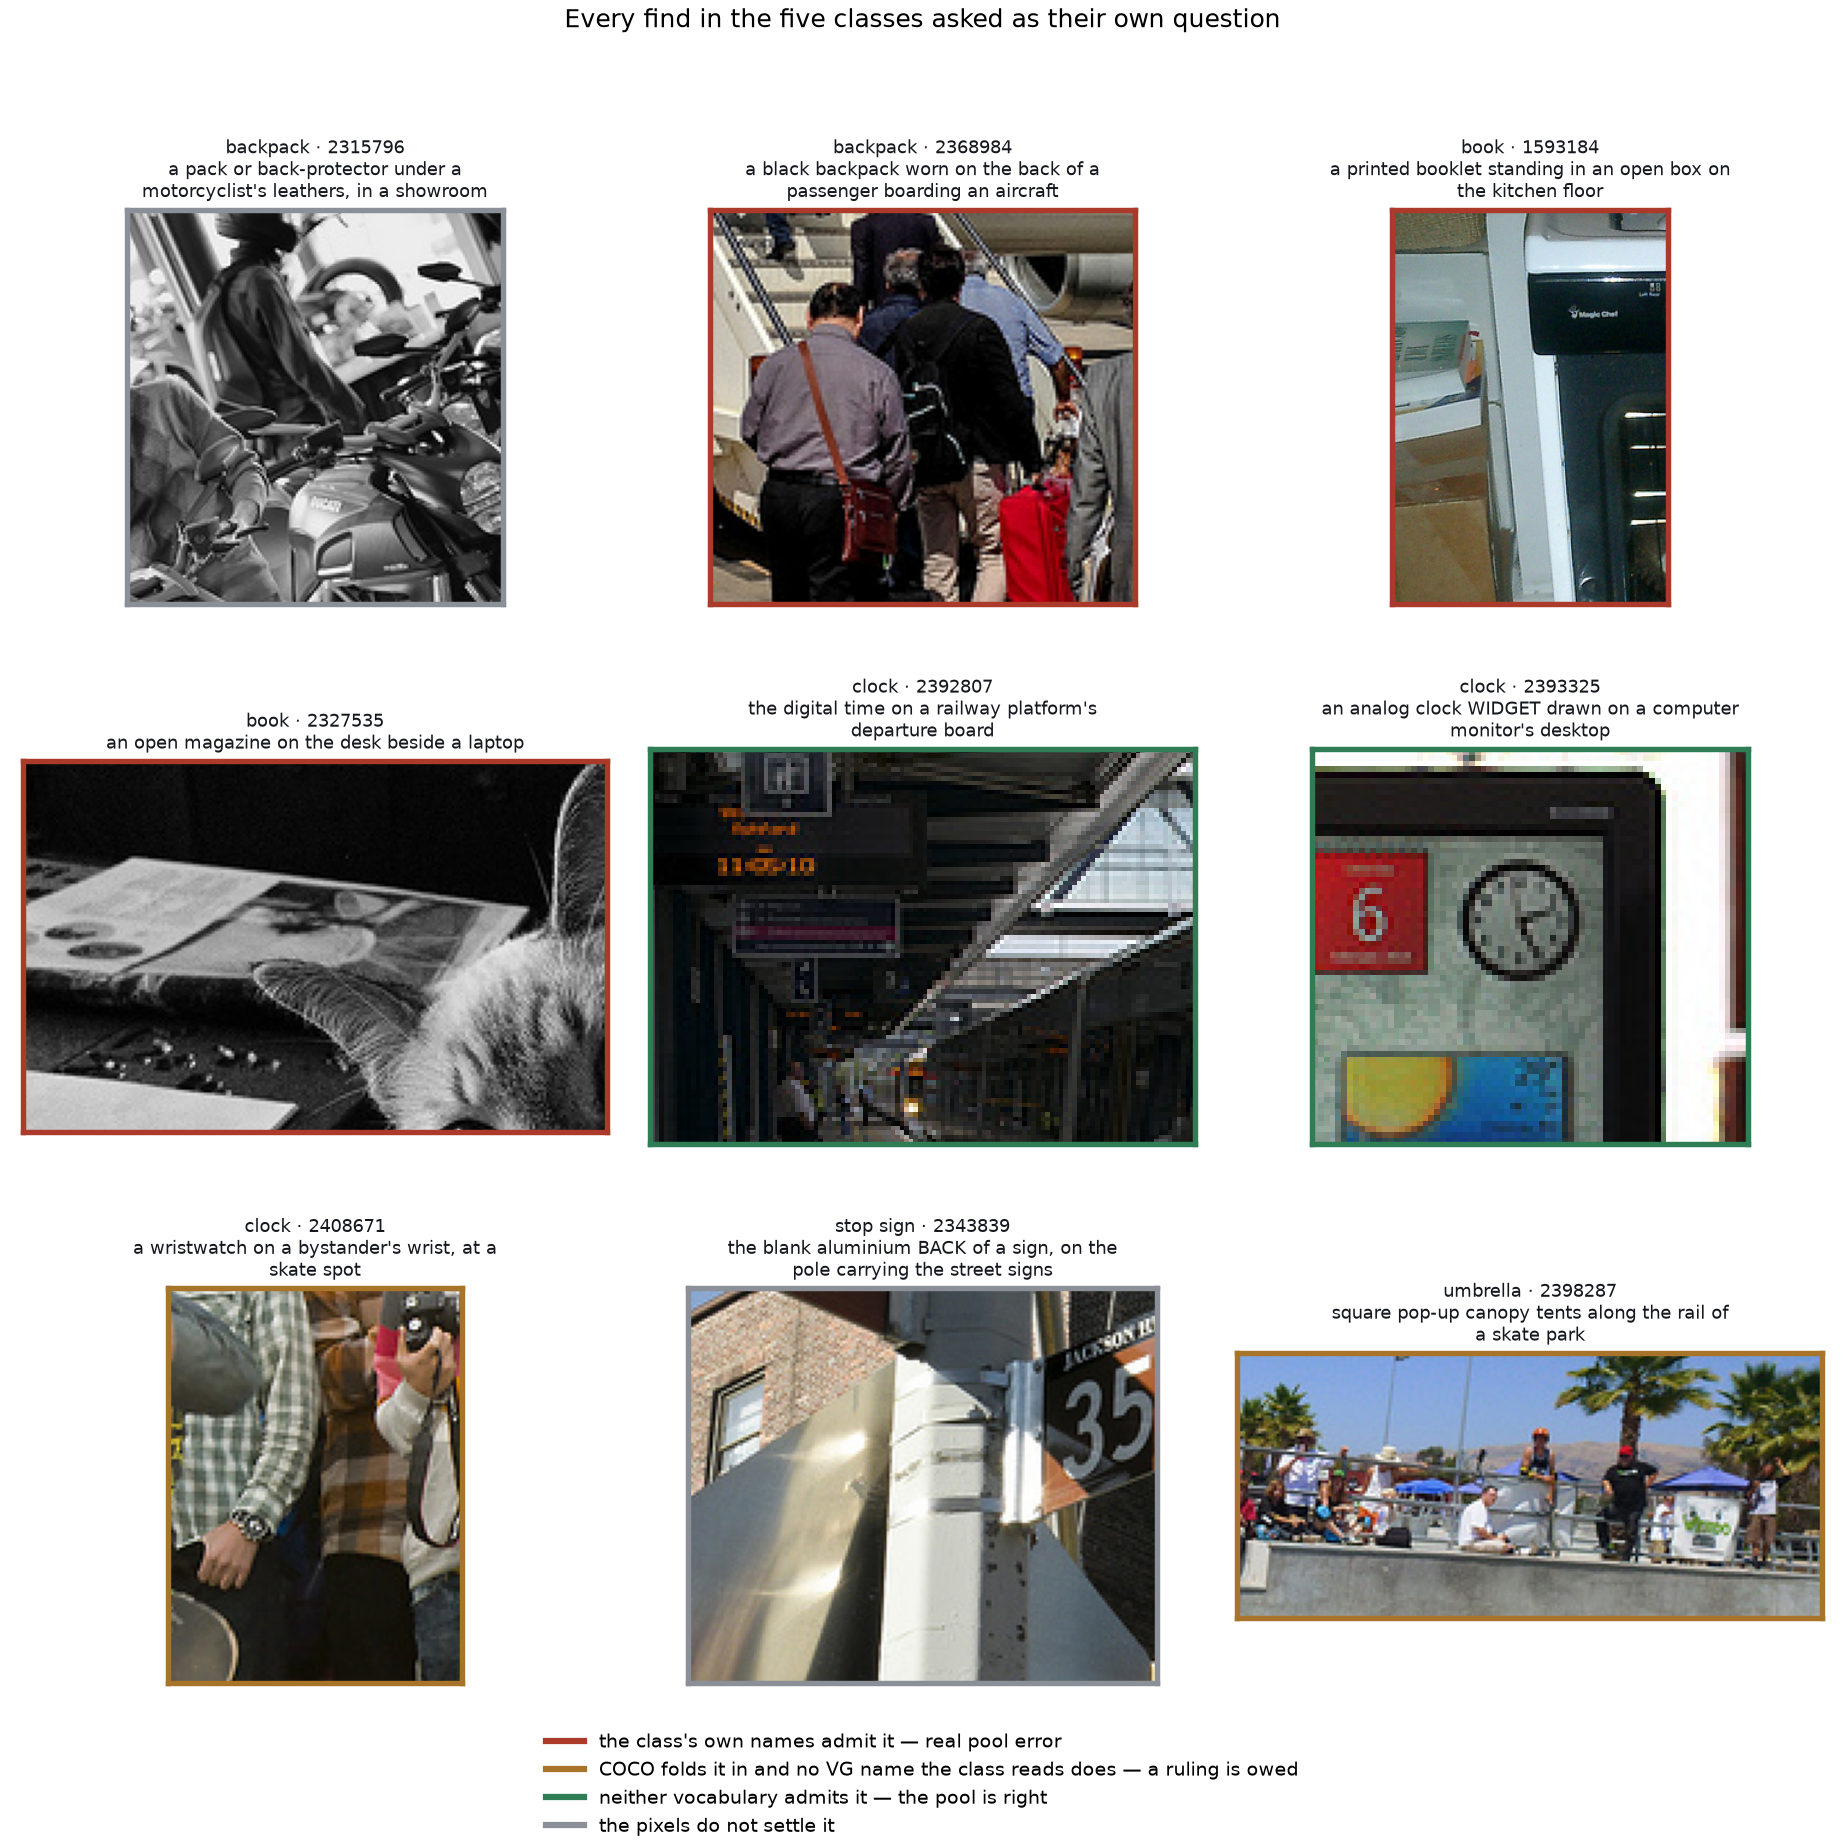
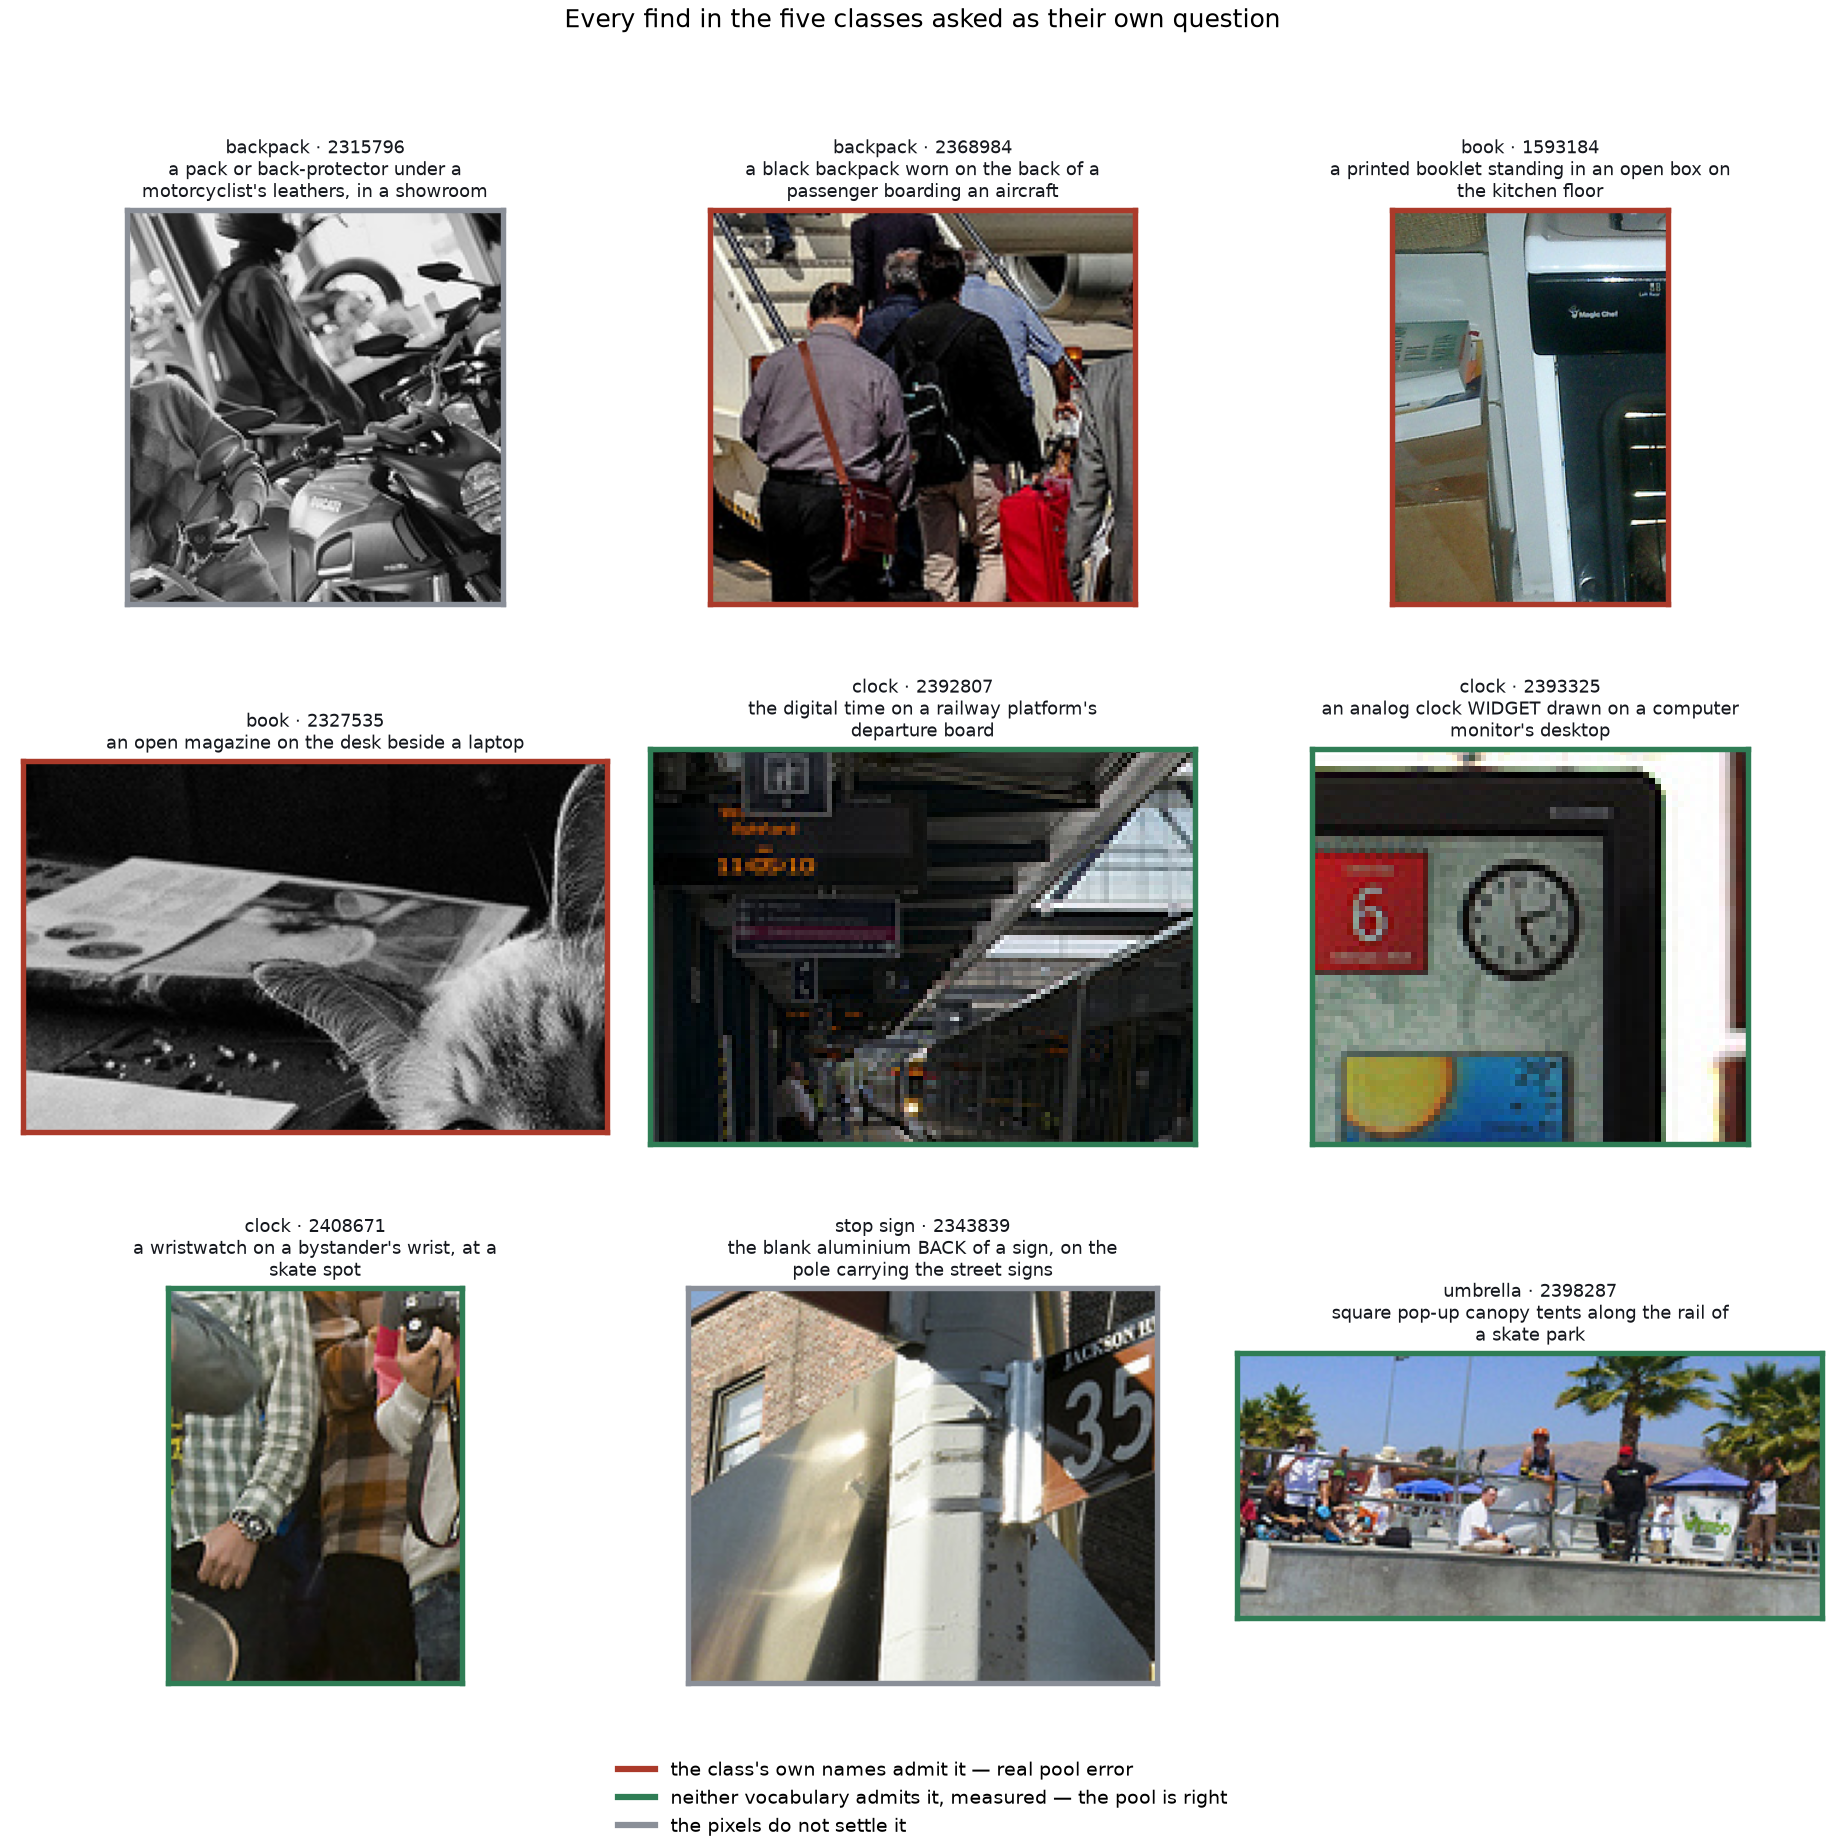
Report: clock's admissible column is 0, and the figures follow (#3666)
Claude-Session: https://claude.ai/code/session_01FAnc7gMSFh43SCLGBM3zCv
(cherry picked from commit ccbdfdb2f0b1891d284da1dcaa13099d11fac909)

diff --git a/docs/experiments/2026-09-06-shipped-pool-3666/REPORT.md b/docs/experiments/2026-09-06-shipped-pool-3666/REPORT.md
@@ -54,7 +54,7 @@ is what §4's second figure is.
 
 | class | asked as | uniform stratum | 95% CI | admissible | ranked | #3635 predicted |
 |---|---|---:|---|---:|---:|---:|
-| `clock` | per-class | 3/100 = 3.0% | [1.0, 8.5] | 0–1 | 0 | 1.10% |
+| `clock` | per-class | 3/100 = 3.0% | [1.0, 8.5] | 0 | 0 | 1.10% |
 | `book` | per-class | 2/100 = 2.0% | [0.6, 7.0] | 2 | 0 | 1.65% |
 | `backpack` | per-class | 2/100 = 2.0% | [0.6, 7.0] | 1–2 | 0 | 2.87% |
 | `umbrella` | per-class | 0/100 = 0.0% | [0.0, 3.7] | 0 | 1 | 0.71% |
@@ -68,7 +68,7 @@ is what §4's second figure is.
 | `kite` | group of 4 | 0/100 = 0.0% | [0.0, 3.7] | 0 | 0 | 0.28% |
 
 *`admissible` is §4's column: the finds the class's own name tables would have
-accepted as a positive, given as a range because two of the nine are
+accepted as a positive, given as a range where one of the class's finds is
 unverifiable from the pixels. `ranked` is the text-ranked stratum, which is
 chosen to be wrong and estimates nothing — it is reported because what it found
 is the subject of §5.*
@@ -238,8 +238,9 @@ uniform draw lands on a row already settled, so the same 70 judgements buy about
 
 The negative pass already spent 100. #3666's 70 would *lower* the precision it
 already has. And the comparison that decides it is the one drawn on the figure:
-**a single ruling on whether a wristwatch is a `clock` moved that class by
-3.0 pp** — more than 3,000 extra draws per class would buy at this rate.
+**one ruling — is a wristwatch a `clock`? — took that class from 3.0% to 0.0%**,
+a 3.0 pp move, which is more than 3,000 extra draws per class would buy at this
+rate.
 
 > At a 1% rate, the definition is the measurement. Buy the ruling first.
 
